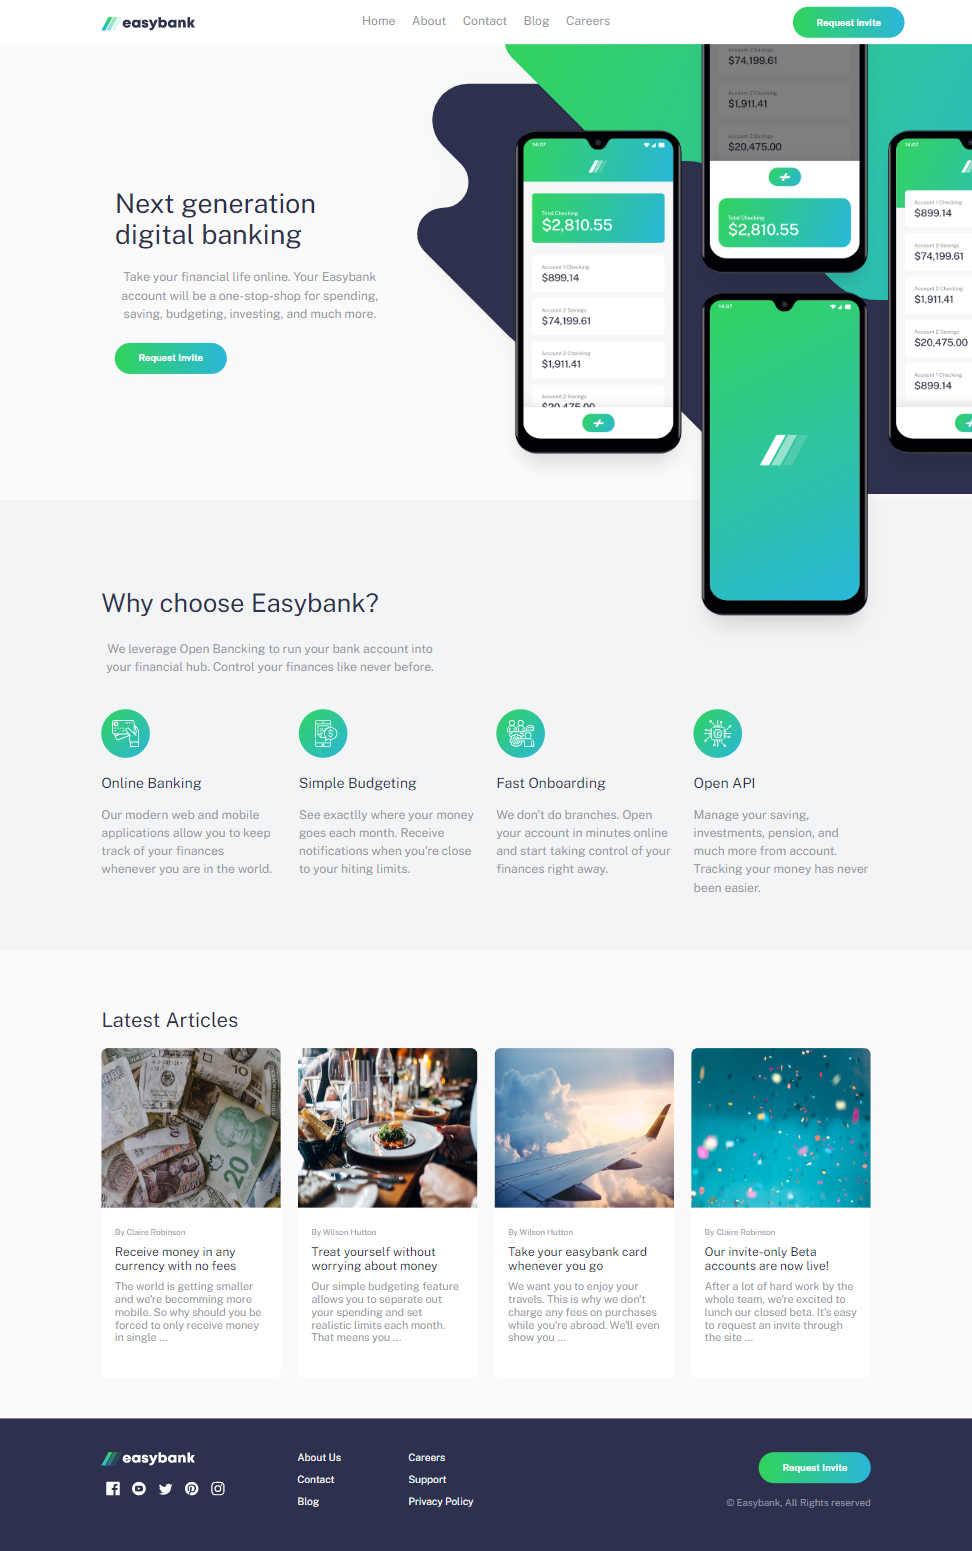
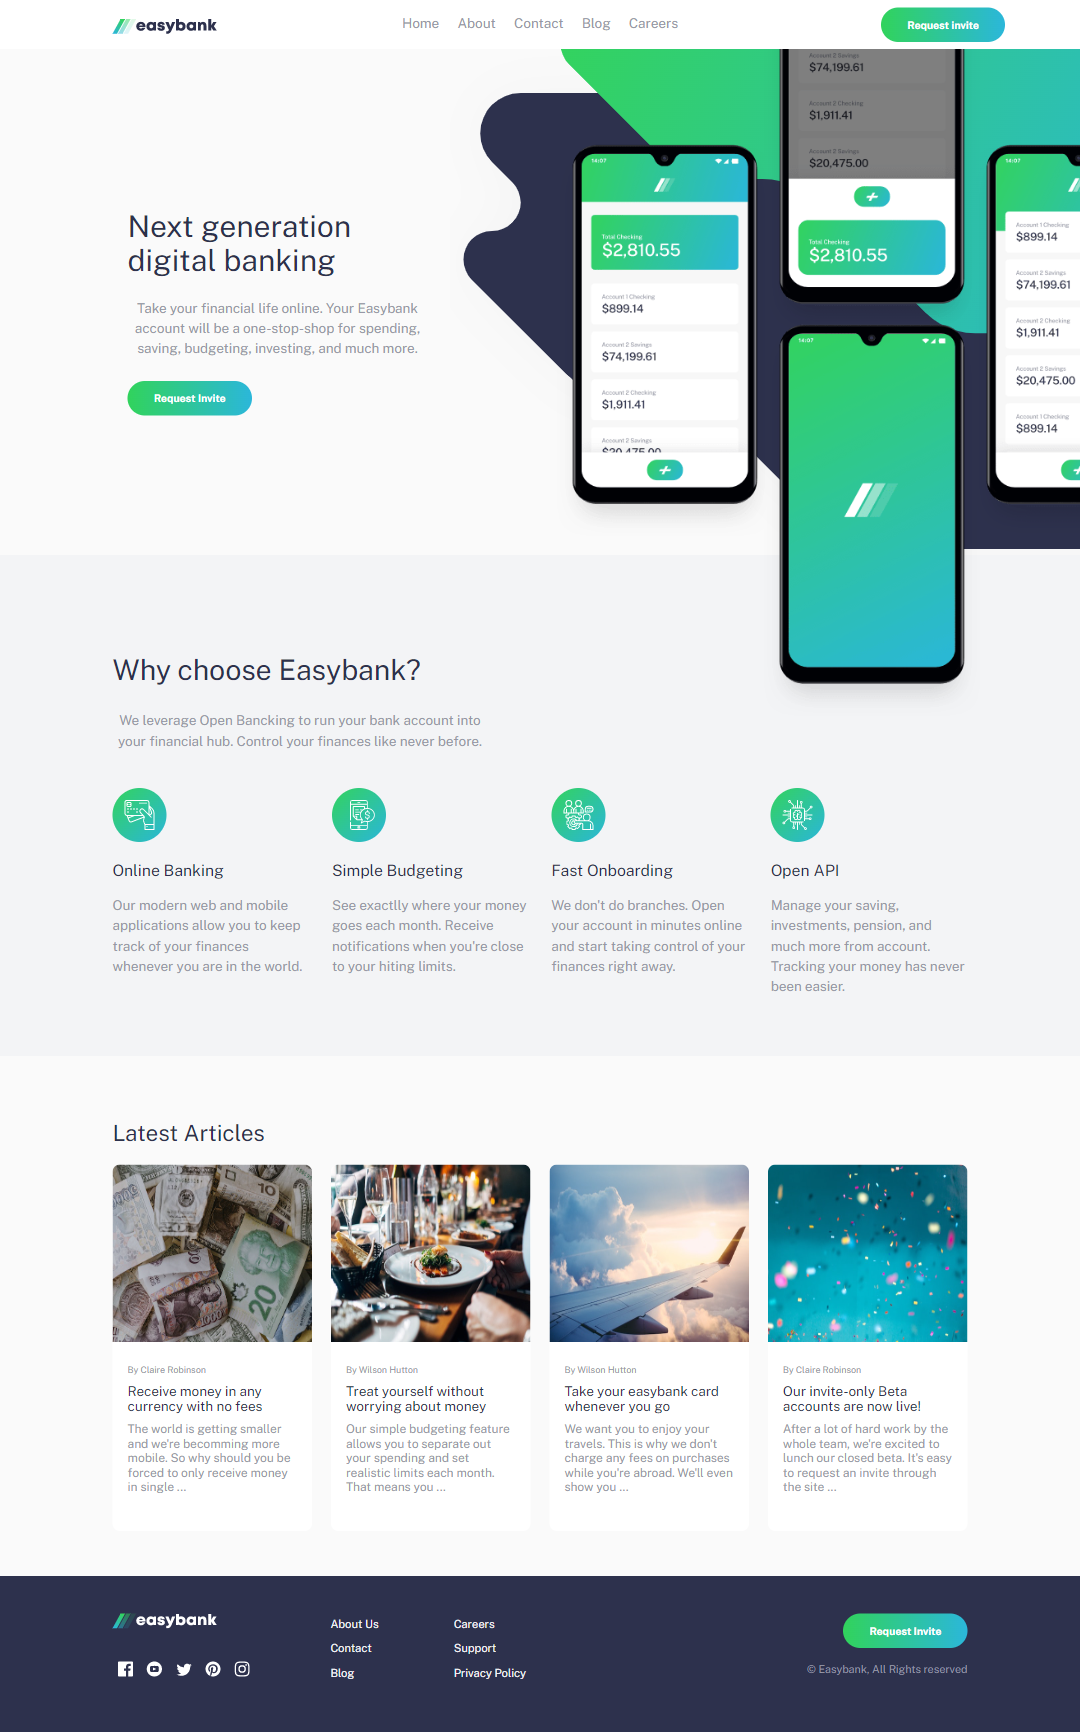
fix accessibility and html issues

diff --git a/index.html b/index.html
@@ -5,9 +5,12 @@
     <meta http-equiv="X-UA-Compatible" content="IE=edge" />
     <meta name="viewport" content="width=device-width, initial-scale=1.0" />
     <meta name="description" content="Easybank Landing Page | Mona Elshikh" />
-    <link rel="preconnect" href="https://fonts.googleapis.com">
-    <link rel="preconnect" href="https://fonts.gstatic.com" crossorigin>
-    <link href="https://fonts.googleapis.com/css2?family=Public+Sans:wght@300;400;700&display=swap" rel="stylesheet">
+    <link rel="preconnect" href="https://fonts.googleapis.com" />
+    <link rel="preconnect" href="https://fonts.gstatic.com" crossorigin />
+    <link
+      href="https://fonts.googleapis.com/css2?family=Public+Sans:wght@300;400;700&display=swap"
+      rel="stylesheet"
+    />
     <link rel="stylesheet" href="css/normalize.css" />
     <link rel="stylesheet" href="css/main.css" />
     <link
@@ -25,15 +28,14 @@
     <title>Easybacnk Landing Page | Mona Elshikh</title>
   </head>
   <body>
-    <div class="easybank" role="main">
-      <!--Start Header -->
-      <header>
-        <div class="container">
+    <!--Start Header -->
+    <header>
+      <div class="container">
         <div class="logo"><img src="images/logo.svg" alt="logo" /></div>
         <div class="menu">
           <div class="toggle">
-            <img src="images/icon-hamburger.svg"  alt="toggle" />
-            <img src="images/icon-close.svg" class="close" alt="close" >
+            <img src="images/icon-hamburger.svg" alt="toggle" />
+            <img src="images/icon-close.svg" class="close" alt="close" />
           </div>
           <ul class="drop-down">
             <li><a href="#">Home</a></li>
@@ -45,59 +47,73 @@
         </div>
         <button class="request-btn">Request invite</button>
       </div>
-      </header>
+    </header>
+    <!--End Header -->
+    <div class="easybank" role="main">
       <div class="overly"></div>
-      <!--End Header -->
       <!-- Start Landing -->
       <section class="landing">
         <div class="landing-image">
-          <img src="images/image-mockups.png" alt="mockups">
+          <img src="images/image-mockups.png" alt="mockups" />
         </div>
         <div class="landing-info">
-            <div class="container">
-              <h1>Next generation digital banking</h1>
-              <p>Take your financial life online. Your Easybank account will be a one-stop-shop for spending, saving, budgeting, investing, and much more.</p>
-              <button class="request-btn">Request Invite</button>
-            </div>
+          <div class="container">
+            <h1>Next generation digital banking</h1>
+            <p>
+              Take your financial life online. Your Easybank account will be a
+              one-stop-shop for spending, saving, budgeting, investing, and much
+              more.
+            </p>
+            <button class="request-btn">Request Invite</button>
           </div>
+        </div>
       </section>
       <!-- End Landing -->
       <!-- Start Features -->
       <section class="features">
-          <div class="container">
-            <div class="feat-info">
-              <h2>Why choose Easybank?</h2>
-              <p>We leverage Open Bancking to run your bank account into your financial hub. 
-                Control your finances like never before.</p>
+        <div class="container">
+          <div class="feat-info">
+            <h2>Why choose Easybank?</h2>
+            <p>
+              We leverage Open Bancking to run your bank account into your
+              financial hub. Control your finances like never before.
+            </p>
+          </div>
+          <div class="feat-boxes">
+            <div class="feat-box">
+              <img src="images/icon-online.svg" alt="online" />
+              <h3>Online Banking</h3>
+              <p>
+                Our modern web and mobile applications allow you to keep track
+                of your finances whenever you are in the world.
+              </p>
             </div>
-            <div class="feat-boxes">
-              <div class="feat-box">
-                <img src="images/icon-online.svg" alt="online">
-                <h3>Online Banking</h3>
-                <p>Our modern web and mobile applications 
-                  allow you to keep track of your finances whenever you 
-                  are in the world.</p>
-              </div>
-              <div class="feat-box">
-                <img src="images/icon-budgeting.svg" alt="budgeting">
-                <h3>Simple Budgeting</h3>
-                <p>See exactlly where your money goes each month. Receive notifications 
-                  when you're close to your hiting limits.</p>
-              </div>
-              <div class="feat-box">
-                <img src="images/icon-onboarding.svg" alt="onboarding">
-                <h3>Fast Onboarding</h3>
-                <p>We don't do branches. Open your account in minutes online and start taking 
-                  control of your finances right away.</p>
-              </div>
-              <div class="feat-box">
-                <img src="images/icon-api.svg" alt="api">
-                <h3>Open API</h3>
-                <p>Manage your saving, investments, pension, and much more from account. 
-                  Tracking your money has never been easier.</p>
-              </div>
+            <div class="feat-box">
+              <img src="images/icon-budgeting.svg" alt="budgeting" />
+              <h3>Simple Budgeting</h3>
+              <p>
+                See exactlly where your money goes each month. Receive
+                notifications when you're close to your hiting limits.
+              </p>
+            </div>
+            <div class="feat-box">
+              <img src="images/icon-onboarding.svg" alt="onboarding" />
+              <h3>Fast Onboarding</h3>
+              <p>
+                We don't do branches. Open your account in minutes online and
+                start taking control of your finances right away.
+              </p>
+            </div>
+            <div class="feat-box">
+              <img src="images/icon-api.svg" alt="api" />
+              <h3>Open API</h3>
+              <p>
+                Manage your saving, investments, pension, and much more from
+                account. Tracking your money has never been easier.
+              </p>
             </div>
           </div>
+        </div>
       </section>
       <!-- End Features -->
       <!-- Start Articles -->
@@ -106,68 +122,81 @@
           <h2>Latest Articles</h2>
           <div class="articles-boxes">
             <div class="article-box">
-              <img src="images/image-currency.jpg" alt="currency">
+              <img src="images/image-currency.jpg" alt="currency" />
               <div class="article-info">
                 <small>By Claire Robinson</small>
                 <h3>Receive money in any currency with no fees</h3>
-                <p>The world is getting smaller and we're becomming more mobile. 
-                  So why should you be forced to only receive money in single ...</p>
+                <p>
+                  The world is getting smaller and we're becomming more mobile.
+                  So why should you be forced to only receive money in single
+                  ...
+                </p>
               </div>
             </div>
             <div class="article-box">
-              <img src="images/image-restaurant.jpg" alt="restaurant">
+              <img src="images/image-restaurant.jpg" alt="restaurant" />
               <div class="article-info">
                 <small>By Wilson Hutton</small>
                 <h3>Treat yourself without worrying about money</h3>
-                <p>Our simple budgeting feature allows you to separate out your spending and set realistic limits each month. 
-                  That means you ...</p>
-               </div>
-            </div>
-            <div class="article-box">
-              <img src="images/image-plane.jpg" alt="plan">
-              <div class="article-info">
-                <small>By Wilson Hutton</small>
-                <h3>Take your easybank card whenever you go</h3>
-                <p>We want you to enjoy your travels. This is why we don't charge any fees on purchases while you're abroad. 
-                  We'll even show you ...</p>
+                <p>
+                  Our simple budgeting feature allows you to separate out your
+                  spending and set realistic limits each month. That means you
+                  ...
+                </p>
               </div>
             </div>
             <div class="article-box">
-              <img src="images/image-confetti.jpg" alt="confetti">
+              <img src="images/image-plane.jpg" alt="plan" />
+              <div class="article-info">
+                <small>By Wilson Hutton</small>
+                <h3>Take your easybank card whenever you go</h3>
+                <p>
+                  We want you to enjoy your travels. This is why we don't charge
+                  any fees on purchases while you're abroad. We'll even show you
+                  ...
+                </p>
+              </div>
+            </div>
+            <div class="article-box">
+              <img src="images/image-confetti.jpg" alt="confetti" />
               <div class="article-info">
                 <small>By Claire Robinson</small>
                 <h3>Our invite-only Beta accounts are now live!</h3>
-                <p>After a lot of hard work by the whole team, we're excited to lunch our closed beta. 
-                  It's easy to request an invite through the site ...</p>
+                <p>
+                  After a lot of hard work by the whole team, we're excited to
+                  lunch our closed beta. It's easy to request an invite through
+                  the site ...
+                </p>
               </div>
             </div>
           </div>
         </div>
       </section>
       <!-- End Articles -->
-      <!-- Start Footer -->
-      <footer>
-        <div class="container">
+    </div>
+    <!-- Start Footer -->
+    <footer>
+      <div class="container">
         <div class="images">
-          <img src="images/logo-light.svg" alt="logo">
+          <img src="images/logo-light.svg" alt="logo" />
           <div class="media">
-            <img src="images/icon-facebook.svg" alt="facebook">
-            <img src="images/icon-youtube.svg" alt="youtube">
-            <img src="images/icon-twitter.svg" alt="twitter">
-            <img src="images/icon-pinterest.svg" alt="pinterest">
-            <img src="images/icon-instagram.svg" alt="instagram">
+            <img src="images/icon-facebook.svg" alt="facebook" />
+            <img src="images/icon-youtube.svg" alt="youtube" />
+            <img src="images/icon-twitter.svg" alt="twitter" />
+            <img src="images/icon-pinterest.svg" alt="pinterest" />
+            <img src="images/icon-instagram.svg" alt="instagram" />
           </div>
         </div>
         <div class="list">
           <ul>
-            <li><a href=""><a>About Us</a></li>
-            <li><a href=""><a>Contact</a></li>
-            <li><a href=""><a>Blog</a></li>
+            <li><a href="#">About Us</a></li>
+            <li><a href="#">Contact</a></li>
+            <li><a href="#">Blog</a></li>
           </ul>
           <ul>
-            <li><a href=""><a>Careers</a></li>
-            <li><a href=""><a>Support</a></li>
-            <li><a href=""><a>Privacy Policy</a></li>
+            <li><a href="#">Careers</a></li>
+            <li><a href="#">Support</a></li>
+            <li><a href="#">Privacy Policy</a></li>
           </ul>
         </div>
         <div class="contact">
@@ -175,9 +204,8 @@
           <small>&copy; Easybank, All Rights reserved</small>
         </div>
       </div>
-      </footer>
-      <!-- End Footer -->
-    </div>
-    <script src="js/main.js" async="true"></script>
+    </footer>
+    <!-- End Footer -->
+    <script src="js/main.js" async></script>
   </body>
 </html>

diff --git a/css/main.css b/css/main.css
@@ -37,6 +37,9 @@ p {
   line-height: 1.5;
   margin-bottom: 30px;
 }
+a {
+  text-decoration: none;
+}
 h1,
 h2,
 h3 {
@@ -249,6 +252,9 @@ footer .container {
 .list > ul > li {
   margin-bottom: 15px;
   font-size: 15px;
+}
+.list > ul > li a {
+  color: var(--light-grayish-blue);
 }
 .list > ul > li a:hover {
   color: var(--Lime-green);

diff --git a/css/media.css b/css/media.css
@@ -106,6 +106,9 @@
     text-align: left;
     margin-bottom: 0;
   }
+  footer .container .images > img {
+    margin-bottom: 20px;
+  }
   footer .container .list {
     flex: 1;
     margin-bottom: 0;
